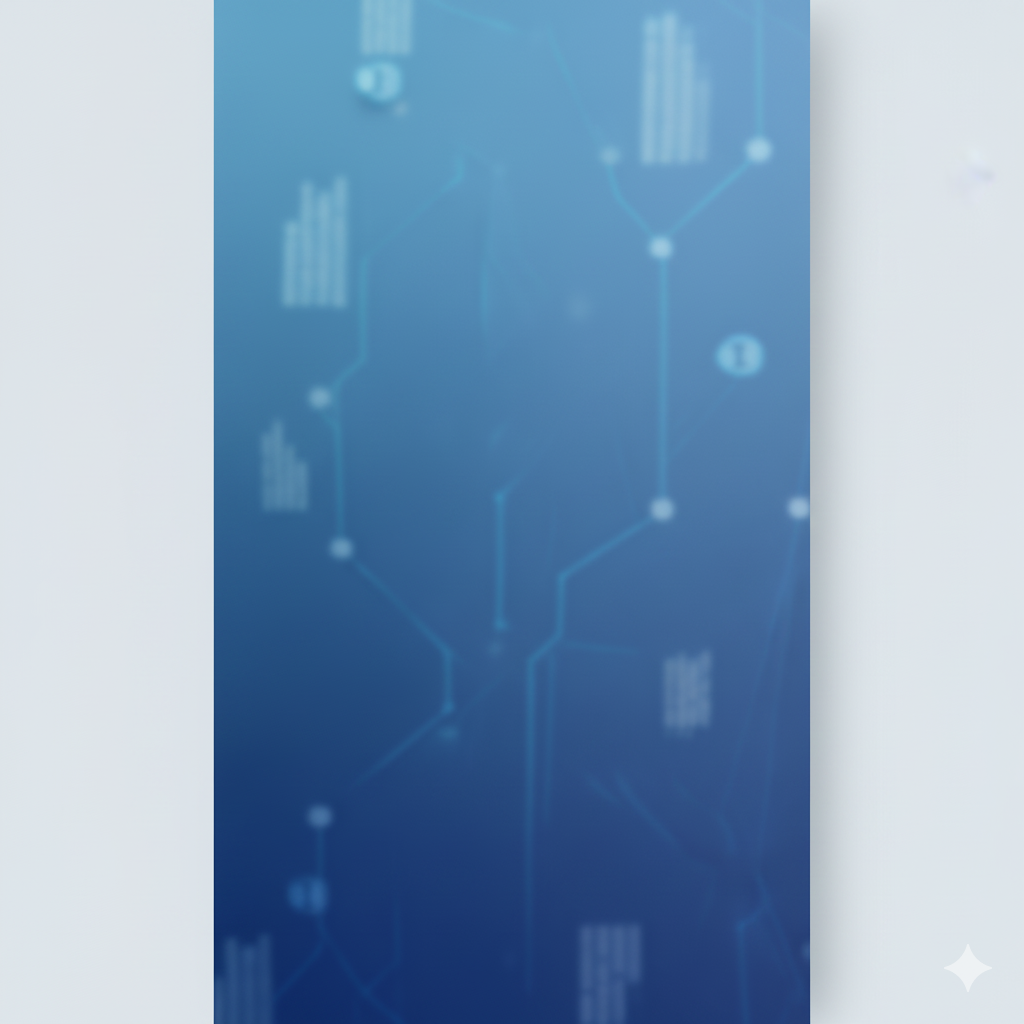
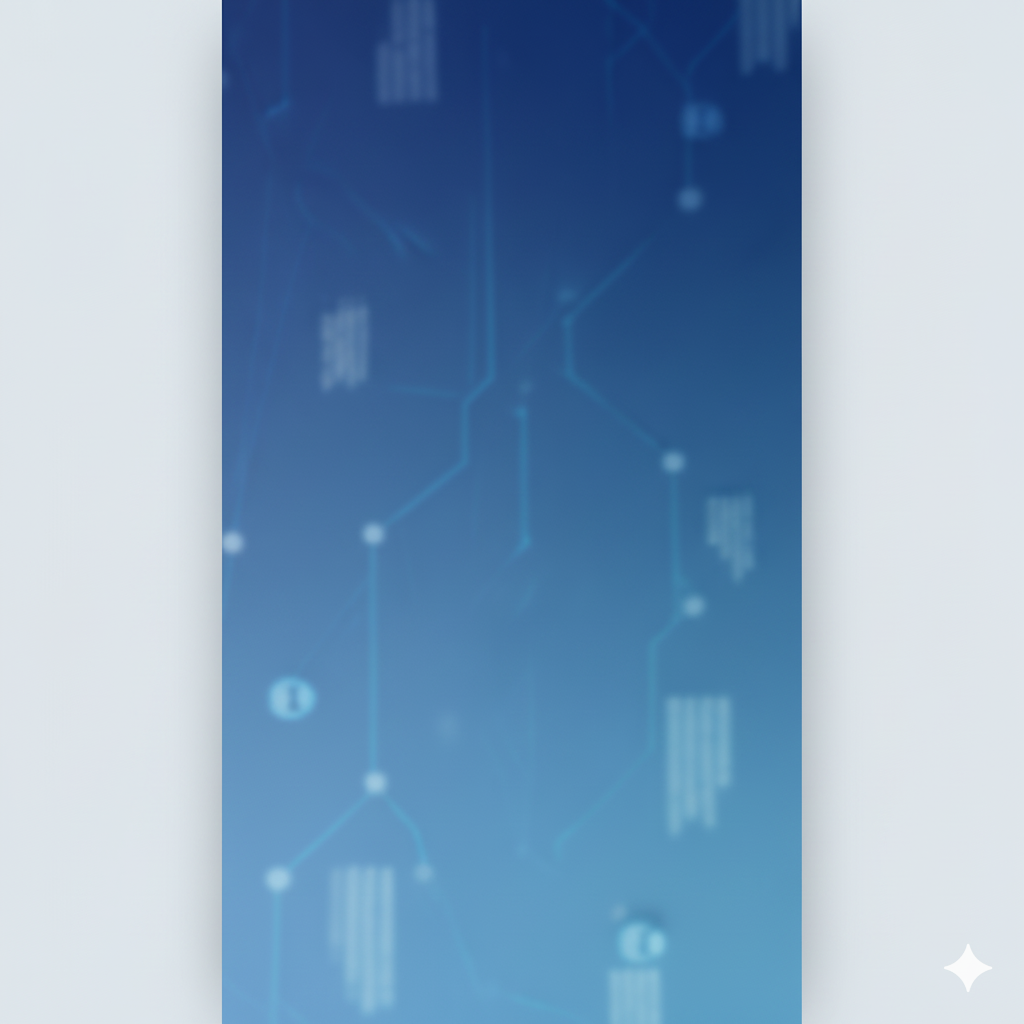
new

diff --git a/style.css b/style.css
@@ -127,7 +127,7 @@ body {
     /* Instead of height: auto, let's give it a min-height or specific height */
     min-height: 250px; /* Adjust this value as needed based on content and desired look */
     width: 100%;
-    background-image: url('images/mtc_background.png'); /* Use the same desktop image */
+    background-image: url('images/mtc_background_mobile.png'); /* Use the same desktop image */
     background-size: cover; /* This is crucial for filling */
     background-position: center top; /* Try 'center top' or just 'center' to see what looks best */
     background-repeat: no-repeat; /* Ensure it doesn't repeat */

diff --git a/index.html b/index.html
@@ -17,7 +17,7 @@
             <div class="text-content">
                 <p class="intro">JUST YOU AND THEM</p>
                 <h1 class="app-name">MindTheClub</h1>
-                <p class="tagline">Reclaim Your Independence with a fully decentralized chat app 11.</p>
+                <p class="tagline">Reclaim Your Independence with a fully decentralized chat app 12.</p>
                 <div class="app-stores">
                     <img src="https://upload.wikimedia.org/wikipedia/commons/7/78/Google_Play_Store_badge_EN.svg" alt="Get it on Google Play" class="app-store-badge">
                 </div>
